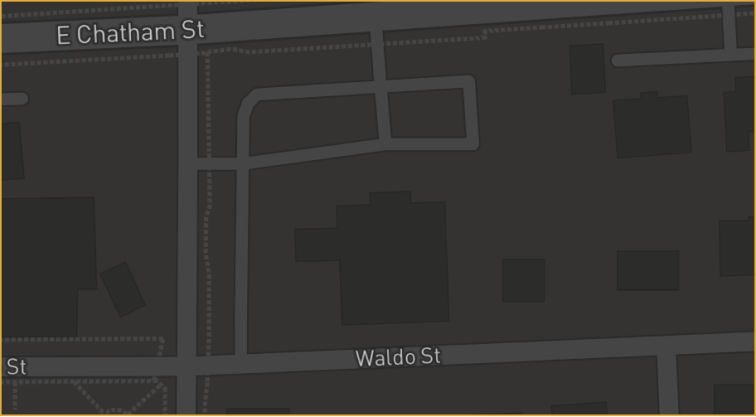
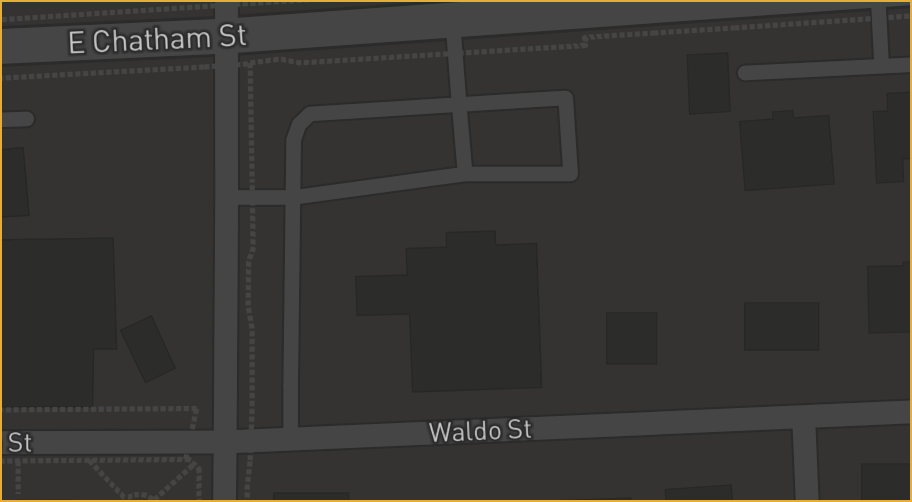
footer_almost_done_1

Changed region(s): [[0.0, 0.9664, 1.0, 1.0], [0.4868, 0.8417, 0.578, 0.8729], [0.0, 0.8729, 0.0304, 0.9041]]

diff --git a/src/components/Main.js b/src/components/Main.js
@@ -12,7 +12,6 @@ import scissorsIconLargeDesktop from '../images/scissorsIconLargeDesktop.svg';
 import scissorsIconLarge from '../images/scissorsIconLarge.svg';
 import getInTouch from '../images/getInTouch.svg';
 import map from '../images/map.png';
-import mapDesktop from '../images/mapDesktop.png';
 
 import styles from '../styles/Main.module.scss';
 
@@ -183,18 +182,14 @@ class Main extends Component {
             </div>
             
             <a
+              className={styles.mapLink}
               href="https://www.google.com/maps/dir/Waldo's+Stylist+Studios,+213+Waldo+St,+Cary,+NC+27511//@35.7868715,-78.8475615,12z/data=!4m8!4m7!1m5!1m1!1s0x89acf3a43f9c2821:0x19c7b7b9e597d3e6!2m2!1d-78.7775206!2d35.7867526!1m0"
-            target="_blank"
-            rel="noopener noreferrer"
+              target="_blank"
+              rel="noopener noreferrer"
             >
               <img
                 src={map}
                 className={styles.map}
-                alt="Map"
-              />
-              <img
-                src={mapDesktop}
-                className={styles.mapDesktop}
                 alt="Map"
               />
             </a>

diff --git a/src/styles/Main.module.scss b/src/styles/Main.module.scss
@@ -201,26 +201,16 @@ $decoCoin: #E6AD39;
     margin-left: -4px;
     margin-top: -7px;
   }
-  .scissorsIconLarge {
-    visibility: hidden;
-  }
-  .scissorsIconLargeDesktop {
+  .scissorsContainerDesktop, .scissorsIconLargeDesktop {
     visibility: visible;
   }
-  .scissorsDivider {
+  .scissorsIconLarge, .scissorsDivider {
     visibility: hidden;
-  }
-  .scissorsContainerDesktop {
-    visibility: visible;
   }
   .lineDividerLeft {
     width: 475px;
   }
-  .lineDividerRight {
-    visibility: hidden;
-    margin: initial;
-  }
-  .lineDividerLeftLower {
+  .lineDividerRight, .lineDividerLeftLower {
     visibility: hidden;
     margin: initial;
   }
@@ -250,8 +240,11 @@ $decoCoin: #E6AD39;
     font-size: 18px;
   }
   .map {
+    width: 456px;
     position: initial;
-    margin: initial;
+    float: right;
+  }
+  .mapLink {
     float: right;
   }
 }
